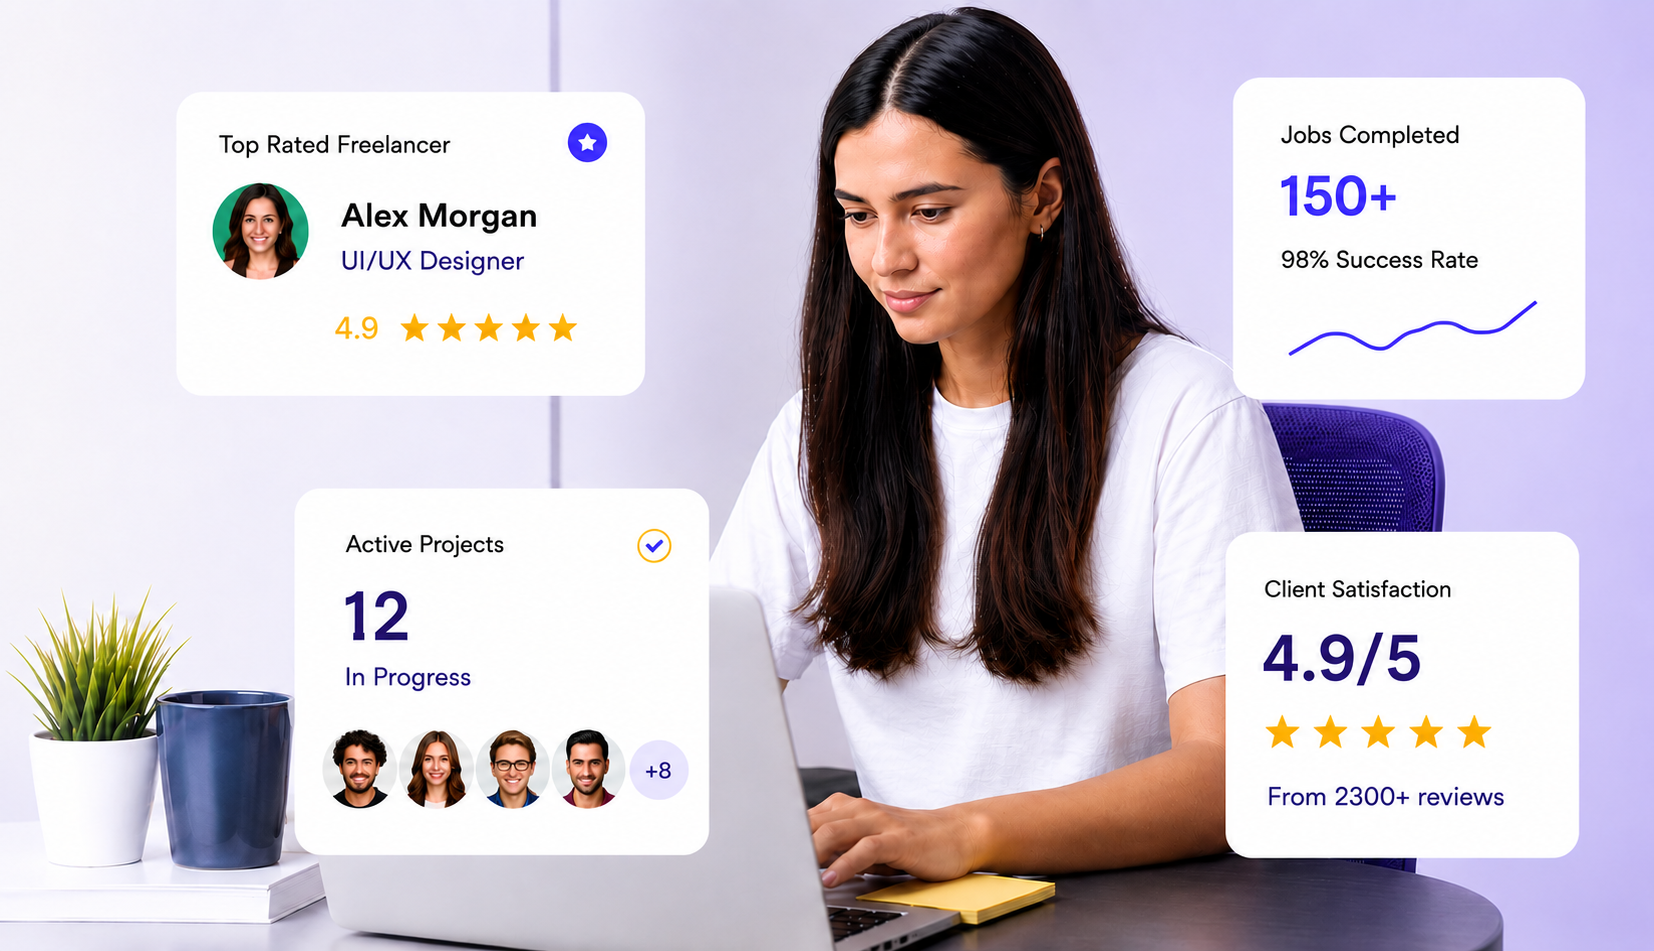
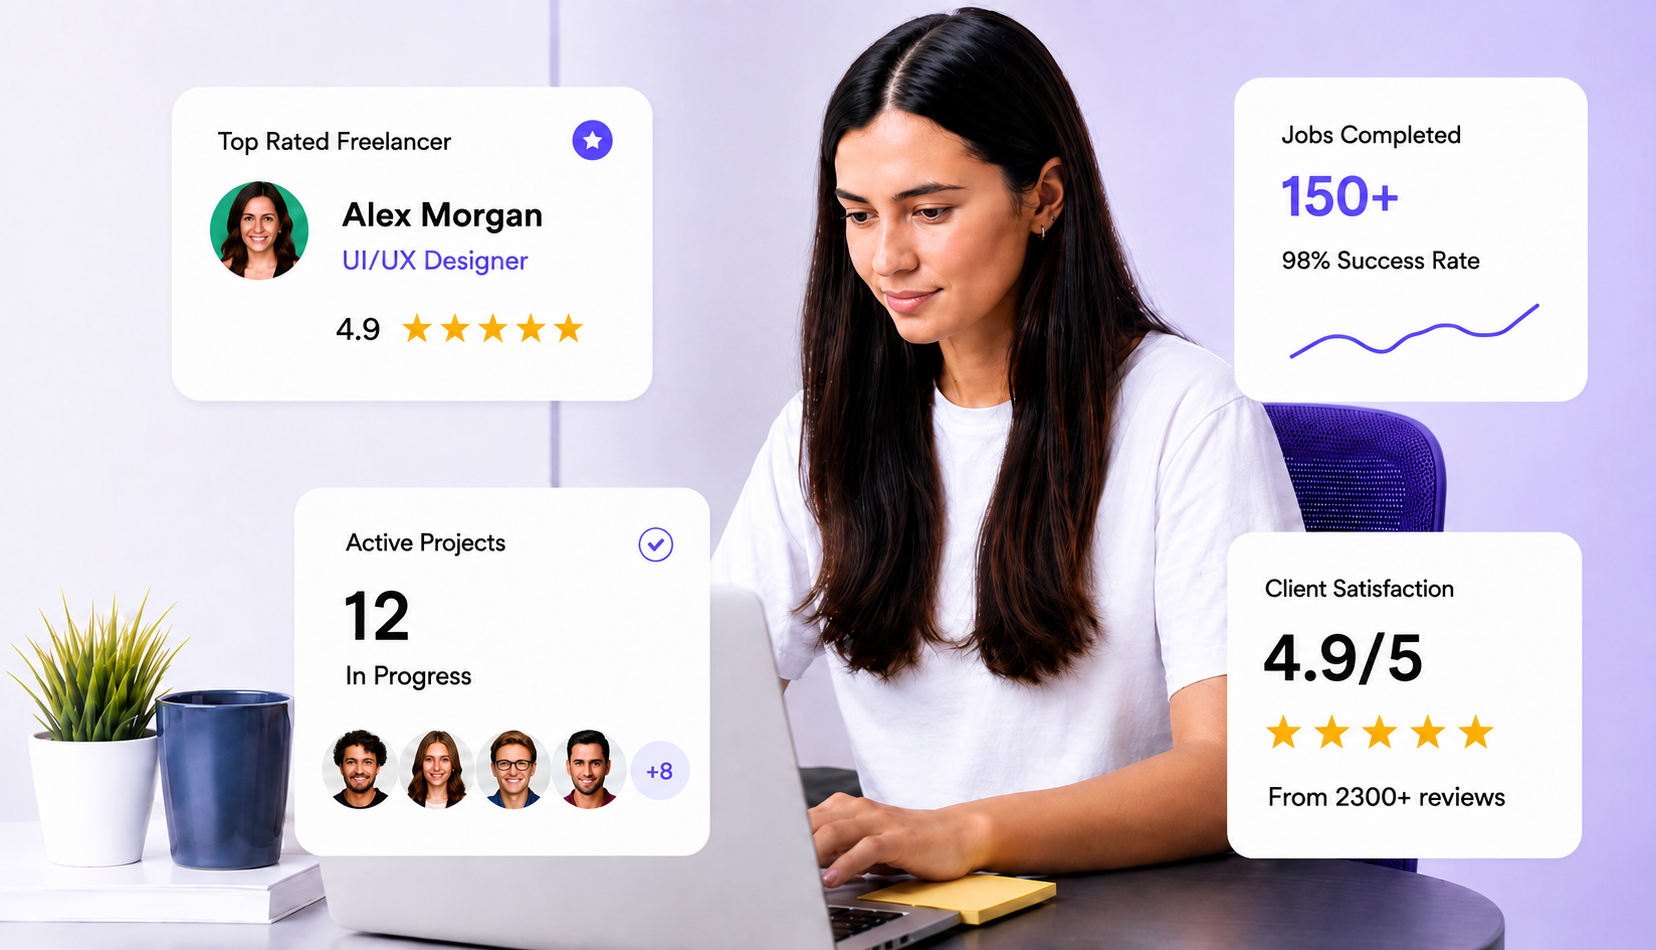
Home Page

diff --git a/index.html b/index.html
@@ -379,6 +379,14 @@
   .carousel-wrap.in .video-card:nth-child(5){animation-delay:.28s;}
   .carousel-wrap.in .video-card:nth-child(6){animation-delay:.34s;}
 
+  /* Our Services cards — same pop-up entrance style as the Watch Our Latest Videos / jobs carousels */
+  .services-row.reveal{ opacity:1; transform:none; transition:none; } /* the row itself just acts as the scroll trigger; cards animate individually below */
+  .services-row .fx-service-card{ opacity:0; }
+  .services-row.in .fx-service-card{ animation:fadeInUp .65s cubic-bezier(.2,.7,.2,1) forwards; }
+  .services-row.in .col-12:nth-child(1) .fx-service-card{ animation-delay:.04s; }
+  .services-row.in .col-12:nth-child(2) .fx-service-card{ animation-delay:.1s; }
+  .services-row.in .col-12:nth-child(3) .fx-service-card{ animation-delay:.16s; }
+
   .job-card{
     scroll-snap-align:start;
     flex:0 0 auto;
@@ -909,11 +917,18 @@
     left: 130%;
 }
 
-  .fx-reveal{ opacity:0; transform:translateY(26px); transition:opacity .7s cubic-bezier(.2,.7,.2,1), transform .7s cubic-bezier(.2,.7,.2,1); }
+  .fx-reveal{ opacity:0; transform:translateY(48px); transition:opacity 1s cubic-bezier(.2,.7,.2,1), transform 1s cubic-bezier(.2,.7,.2,1); will-change:opacity, transform; }
   .fx-reveal.fx-in{ opacity:1; transform:translateY(0); }
-  .fx-reveal.fx-r1{transition-delay:.05s;}
-  .fx-reveal.fx-r2{transition-delay:.12s;}
-  .fx-reveal.fx-r3{transition-delay:.19s;}
+  .fx-reveal.fx-r1{transition-delay:.12s;}
+  .fx-reveal.fx-r2{transition-delay:.28s;}
+  .fx-reveal.fx-r3{transition-delay:.44s;}
+
+  /* Slide-in-from-left variant, used for How It Works media */
+  .fx-reveal.fx-reveal-left{ transform:translateX(-140px); transition-duration:1.1s; }
+  .fx-reveal.fx-reveal-left.fx-in{ transform:translateX(0); }
+  @media (max-width: 991.98px){
+    .fx-reveal.fx-reveal-left{ transform:translateY(48px); } /* fall back to up-fade on small screens where the column stacks */
+  }
 /* Step Card */
 .fx-step{
     transition: transform .35s cubic-bezier(.2,.8,.2,1),
@@ -999,12 +1014,28 @@
 }
 
   .fx-purpose-card{ transition: transform .4s cubic-bezier(.2,.8,.2,1), box-shadow .4s ease, background-color .45s ease, border-color .45s ease; }
+  /* the transition shorthand above would otherwise wipe out the reveal's opacity/transform
+     transition on the same element — restore it here with higher specificity, and make the
+     entrance clearly noticeable: a bigger rise + a slight scale-pop, staggered per card. */
+  .fx-purpose-card.fx-reveal{
+    transform: translateY(90px) scale(.92);
+    transition: opacity 1.1s cubic-bezier(.2,.7,.2,1), transform 1.1s cubic-bezier(.2,.7,.2,1), box-shadow .4s ease, background-color .45s ease, border-color .45s ease;
+  }
+  .fx-purpose-card.fx-reveal.fx-in{ transform: translateY(0) scale(1); }
+  .fx-purpose-card.fx-reveal.fx-r1{ transition-delay:.05s; }
+  .fx-purpose-card.fx-reveal.fx-r2{ transition-delay:.35s; }
   .fx-purpose-card:hover{ transform: translateY(-6px); box-shadow:0 22px 42px -20px rgba(28,27,58,.2); }
+  .fx-purpose-card.fx-reveal.fx-in:hover{ transform: translateY(-6px); }
   .fx-icon-circle{ transition: transform .35s ease, background-color .35s ease, color .35s ease; }
   .fx-purpose-card:hover .fx-icon-circle{ transform: rotate(-10deg) scale(1.1); }
   .fx-purpose-card h3{ transition: color .4s ease; }
   .fx-purpose-text{ color:#334155; transition: color .4s ease; }
   .fx-media-hover{ transition: box-shadow .45s ease; }
+  /* fx-media-hover's transition shorthand above would otherwise wipe out the
+     opacity/transform transition needed for the entrance reveal on the same
+     element — restore it here with higher specificity so both work together. */
+  .fx-media-hover.fx-reveal{ transition: opacity 1s cubic-bezier(.2,.7,.2,1), transform 1s cubic-bezier(.2,.7,.2,1), box-shadow .45s ease; }
+  .fx-media-hover.fx-reveal.fx-reveal-left{ transition: opacity 1.1s cubic-bezier(.2,.7,.2,1), transform 1.1s cubic-bezier(.2,.7,.2,1), box-shadow .45s ease; }
 
   /* ---- For Businesses card: purple takeover on hover ---- */
   .fx-card-business:hover{
@@ -1513,7 +1544,7 @@ section{
 </header>
  <!-- HERO SECTION -->
 <section class="position-relative w-100 d-flex align-items-center py-5 overflow-hidden" style="min-height: 560px;">
-  <img src="hero_image.png" 
+  <img src="hero_image.webp" 
        alt="Hero Background" 
        class="position-absolute top-0 end-0 h-100 w-100" 
        style="object-fit:contain; object-position: center right; z-index: 0;">
@@ -1611,7 +1642,7 @@ section{
     <div class="row align-items-center g-4 g-lg-5" style="min-height: 500px;">
 
       <div class="col-12 col-lg-6 text-center">
-        <div class="rounded-4 overflow-hidden shadow-sm mx-auto fx-media-hover fx-reveal" style="max-width: 480px; height: 440px; background-color: #f8fafc;">
+        <div class="rounded-4 overflow-hidden shadow-sm mx-auto fx-media-hover fx-reveal fx-reveal-left" style="max-width: 480px; height: 440px; background-color: #f8fafc;">
           <img src="remote_job.png" 
                alt="Find Remote Jobs View" 
                class="w-100 h-100" 
@@ -1621,10 +1652,10 @@ section{
 
       <div class="col-12 col-lg-6 ps-lg-4 d-flex flex-column justify-content-between" style="min-height: 440px;">
         <div>
-          <h2 class="fw-bold text-dark mb-2" style="font-size: 36px; font-weight: 900; letter-spacing: -0.5px;">
+          <h2 class="fw-bold text-dark mb-2 fx-reveal" style="font-size: 36px; font-weight: 900; letter-spacing: -0.5px;">
             Find Remote Jobs
           </h2>
-          <p class="mb-3" style="font-size: 16px; color: #64748b; line-height: 1.5; min-height: 42px;">
+          <p class="mb-3 fx-reveal fx-r1" style="font-size: 16px; color: #64748b; line-height: 1.5; min-height: 42px;">
             Start freelancing in 3 easy steps and build your remote career from anywhere with verified projects and global clients.
           </p>
 
@@ -1641,7 +1672,7 @@ section{
      ">
 </div>
 
-            <div class=" fx-step-wrapper d-flex align-items-center gap-3 position-relative" style="z-index: 1;">
+            <div class="fx-step-wrapper fx-reveal fx-r1 d-flex align-items-center gap-3 position-relative" style="z-index: 1;">
               <div class="rounded-circle d-flex align-items-center justify-content-center fw-bold text-dark shadow-sm fx-number" style="width: 40px; height: 40px; background-color: #ffcd00; font-size: 14px; flex-shrink: 0;">1</div>
               <div class="p-3 rounded-4 d-flex align-items-center gap-3 w-100 fx-step fx-step-yellow" style="background-color: #fffdf5; border: 1px solid #fef3c7; min-height: 76px;">
                 <div class="rounded-3 d-flex align-items-center justify-content-center" style="width: 45px; height: 45px; background-color: #fef3c7; color: #ffcd00; flex-shrink: 0;">
@@ -1654,7 +1685,7 @@ section{
               </div>
             </div>
 
-            <div class=" fx-step-wrapper d-flex align-items-center gap-3 position-relative" style="z-index: 1;">
+            <div class="fx-step-wrapper fx-reveal fx-r2 d-flex align-items-center gap-3 position-relative" style="z-index: 1;">
               <div class="rounded-circle d-flex align-items-center justify-content-center fw-bold text-white shadow-sm fx-number" style="width: 40px; height: 40px; background-color: #7b7dfc; font-size: 14px; flex-shrink: 0;">2</div>
               <div class="p-3 rounded-4 d-flex align-items-center gap-3 w-100 fx-step fx-step-purple" style="background-color: #f5f3ff; border: 1px solid #ede9fe; min-height: 76px;">
                 <div class="rounded-3 d-flex align-items-center justify-content-center" style="width: 45px; height: 45px; background-color: #ede9fe; color: #7b7dfc; flex-shrink: 0;">
@@ -1667,7 +1698,7 @@ section{
               </div>
             </div>
 
-            <div class=" fx-step-wrapper d-flex align-items-center gap-3 position-relative" style="z-index: 1;">
+            <div class="fx-step-wrapper fx-reveal fx-r3 d-flex align-items-center gap-3 position-relative" style="z-index: 1;">
               <div class="rounded-circle d-flex align-items-center justify-content-center fw-bold text-white shadow-sm fx-number" style="width: 40px; height: 40px; background-color: #e91e63; font-size: 14px; flex-shrink: 0;">3</div>
               <div class="p-3 rounded-4 d-flex align-items-center gap-3 w-100 fx-step fx-step-pink" style="background-color: #fdf2f8; border: 1px solid #fbcfe8; min-height: 76px;">
                 <div class="rounded-3 d-flex align-items-center justify-content-center" style="width: 45px; height: 45px; background-color: #fbcfe8; color: #e91e63; flex-shrink: 0;">
@@ -1696,7 +1727,7 @@ section{
     <div class="row align-items-center g-4 g-lg-5" style="min-height: 500px;">
 
       <div class="col-12 col-lg-6 text-center">
-        <div class="rounded-4 overflow-hidden shadow-sm mx-auto fx-media-hover fx-reveal" style="max-width: 480px; height: 440px; background-color: #f8fafc;">
+        <div class="rounded-4 overflow-hidden shadow-sm mx-auto fx-media-hover fx-reveal fx-reveal-left" style="max-width: 480px; height: 440px; background-color: #f8fafc;">
           <img src="find_project_talent.png" 
                alt="Find Project Talent View" 
                class="w-100 h-100" 
@@ -1706,10 +1737,10 @@ section{
 
       <div class="col-12 col-lg-6 ps-lg-4 d-flex flex-column justify-content-between" style="min-height: 440px;">
         <div>
-          <h2 class="fw-bold text-dark mb-2" style="font-size: 36px; font-weight: 900; letter-spacing: -0.5px;">
+          <h2 class="fw-bold text-dark mb-2 fx-reveal" style="font-size: 36px; font-weight: 900; letter-spacing: -0.5px;">
             Find Project Talent
           </h2>
-          <p class="mb-3" style="font-size: 16px; color: #64748b; line-height: 1.5; min-height: 42px;">
+          <p class="mb-3 fx-reveal fx-r1" style="font-size: 16px; color: #64748b; line-height: 1.5; min-height: 42px;">
             Scale your team with vetted professionals matched to your project requirements and timelines.
           </p>
 
@@ -1726,7 +1757,7 @@ section{
      ">
 </div>
 
-            <div class=" fx-step-wrapper d-flex align-items-center gap-3 position-relative" style="z-index: 1;">
+            <div class="fx-step-wrapper fx-reveal fx-r1 d-flex align-items-center gap-3 position-relative" style="z-index: 1;">
               <div class="rounded-circle d-flex align-items-center justify-content-center fw-bold text-dark shadow-sm fx-number" style="width: 40px; height: 40px; background-color: #ffcd00; font-size: 14px; flex-shrink: 0;">1</div>
               <div class="p-3 rounded-4 d-flex align-items-center gap-3 w-100 fx-step fx-step-yellow" style="background-color: #fffdf5; border: 1px solid #fef3c7; min-height: 76px;">
                 <div class="rounded-3 d-flex align-items-center justify-content-center" style="width: 45px; height: 45px; background-color: #fef3c7; color: #ffcd00; flex-shrink: 0;">
@@ -1739,7 +1770,7 @@ section{
               </div>
             </div>
 
-            <div class=" fx-step-wrapper d-flex align-items-center gap-3 position-relative" style="z-index: 1;">
+            <div class="fx-step-wrapper fx-reveal fx-r2 d-flex align-items-center gap-3 position-relative" style="z-index: 1;">
               <div class="rounded-circle d-flex align-items-center justify-content-center fw-bold text-white shadow-sm fx-number" style="width: 40px; height: 40px; background-color: #7b7dfc; font-size: 14px; flex-shrink: 0;">2</div>
               <div class="p-3 rounded-4 d-flex align-items-center gap-3 w-100 fx-step fx-step-purple" style="background-color: #f5f3ff; border: 1px solid #ede9fe; min-height: 76px;">
                 <div class="rounded-3 d-flex align-items-center justify-content-center" style="width: 45px; height: 45px; background-color: #ede9fe; color: #7b7dfc; flex-shrink: 0;">
@@ -1752,7 +1783,7 @@ section{
               </div>
             </div>
 
-            <div class=" fx-step-wrapper d-flex align-items-center gap-3 position-relative" style="z-index: 1;">
+            <div class="fx-step-wrapper fx-reveal fx-r3 d-flex align-items-center gap-3 position-relative" style="z-index: 1;">
               <div class="rounded-circle d-flex align-items-center justify-content-center fw-bold text-white shadow-sm fx-number" style="width: 40px; height: 40px; background-color: #e91e63; font-size: 14px; flex-shrink: 0;">3</div>
               <div class="p-3 rounded-4 d-flex align-items-center gap-3 w-100 fx-step fx-step-pink" style="background-color: #fdf2f8; border: 1px solid #fbcfe8; min-height: 76px;">
                 <div class="rounded-3 d-flex align-items-center justify-content-center" style="width: 45px; height: 45px; background-color: #fbcfe8; color: #e91e63; flex-shrink: 0;">
@@ -1781,7 +1812,7 @@ section{
     <div class="row align-items-center g-4 g-lg-5" style="min-height: 500px;">
 
       <div class="col-12 col-lg-6 text-center">
-        <div class="rounded-4 overflow-hidden shadow-sm mx-auto fx-media-hover fx-reveal" style="max-width: 480px; height: 440px; background-color: #f8fafc;">
+        <div class="rounded-4 overflow-hidden shadow-sm mx-auto fx-media-hover fx-reveal fx-reveal-left" style="max-width: 480px; height: 440px; background-color: #f8fafc;">
           <img src="grow_your_skills.png" 
                alt="Grow Your Skills View" 
                class="w-100 h-100" 
@@ -1791,10 +1822,10 @@ section{
 
       <div class="col-12 col-lg-6 ps-lg-4 d-flex flex-column justify-content-between" style="min-height: 440px;">
         <div>
-          <h2 class="fw-bold text-dark mb-2" style="font-size: 36px; font-weight: 900; letter-spacing: -0.5px;">
+          <h2 class="fw-bold text-dark mb-2 fx-reveal" style="font-size: 36px; font-weight: 900; letter-spacing: -0.5px;">
             Grow Your Skills
           </h2>
-          <p class="mb-3" style="font-size: 16px; color: #64748b; line-height: 1.5; min-height: 42px;">
+          <p class="mb-3 fx-reveal fx-r1" style="font-size: 16px; color: #64748b; line-height: 1.5; min-height: 42px;">
             Advance your career with guided learning, hands-on projects, and expert feedback.
           </p>
 
@@ -1811,7 +1842,7 @@ section{
      ">
 </div>
 
-            <div class="fx-step-wrapper d-flex align-items-center gap-3 position-relative" style="z-index: 1;">
+            <div class="fx-step-wrapper fx-reveal fx-r1 d-flex align-items-center gap-3 position-relative" style="z-index: 1;">
               <div class="rounded-circle d-flex align-items-center justify-content-center fw-bold text-dark shadow-sm fx-number" style="width: 40px; height: 40px; background-color: #ffcd00; font-size: 14px; flex-shrink: 0;">1</div>
               <div class="p-3 rounded-4 d-flex align-items-center gap-3 w-100 fx-step fx-step-yellow" style="background-color: #fffdf5; border: 1px solid #fef3c7; min-height: 76px;">
                 <div class="rounded-3 d-flex align-items-center justify-content-center" style="width: 45px; height: 45px; background-color: #fef3c7; color: #ffcd00; flex-shrink: 0;">
@@ -1824,7 +1855,7 @@ section{
               </div>
             </div>
 
-            <div class="fx-step-wrapper d-flex align-items-center gap-3 position-relative" style="z-index: 1;">
+            <div class="fx-step-wrapper fx-reveal fx-r2 d-flex align-items-center gap-3 position-relative" style="z-index: 1;">
               <div class="rounded-circle d-flex align-items-center justify-content-center fw-bold text-white shadow-sm fx-number" style="width: 40px; height: 40px; background-color: #7b7dfc; font-size: 14px; flex-shrink: 0;">2</div>
               <div class="p-3 rounded-4 d-flex align-items-center gap-3 w-100 fx-step fx-step-purple" style="background-color: #f5f3ff; border: 1px solid #ede9fe; min-height: 76px;">
                 <div class="rounded-3 d-flex align-items-center justify-content-center" style="width: 45px; height: 45px; background-color: #ede9fe; color: #7b7dfc; flex-shrink: 0;">
@@ -1837,7 +1868,7 @@ section{
               </div>
             </div>
 
-            <div class="fx-step-wrapper d-flex align-items-center gap-3 position-relative" style="z-index: 1;">
+            <div class="fx-step-wrapper fx-reveal fx-r3 d-flex align-items-center gap-3 position-relative" style="z-index: 1;">
               <div class="rounded-circle d-flex align-items-center justify-content-center fw-bold text-white shadow-sm fx-number" style="width: 40px; height: 40px; background-color: #e91e63; font-size: 14px; flex-shrink: 0;">3</div>
               <div class="p-3 rounded-4 d-flex align-items-center gap-3 w-100 fx-step fx-step-pink" style="background-color: #fdf2f8; border: 1px solid #fbcfe8; min-height: 76px;">
                 <div class="rounded-3 d-flex align-items-center justify-content-center" style="width: 45px; height: 45px; background-color: #fbcfe8; color: #e91e63; flex-shrink: 0;">
@@ -1908,7 +1939,7 @@ section{
       
       <!-- ================= TAB 1: FREELANCER ================= -->
       <div class="tab-pane fade show active" id="freelancer" role="tabpanel">
-        <div class="row g-4">
+        <div class="row g-4 reveal services-row">
 
           <div class="col-12 col-md-6 col-lg-4 d-flex">
             <div class="card border-0 rounded-4 shadow-sm w-100 p-3 d-flex flex-column justify-content-between fx-service-card" style="background-color: #ffffff;">
@@ -1963,7 +1994,7 @@ section{
 
       <!-- ================= TAB 2: COMPANIES ================= -->
       <div class="tab-pane fade" id="companies" role="tabpanel">
-        <div class="row g-4">
+        <div class="row g-4 reveal services-row">
 
           <div class="col-12 col-md-6 col-lg-4 d-flex">
             <div class="card border-0 rounded-4 shadow-sm w-100 p-3 d-flex flex-column justify-content-between fx-service-card" style="background-color: #ffffff;">
@@ -2018,7 +2049,7 @@ section{
 
       <!-- ================= TAB 3: TRAINING PROGRAMS ================= -->
       <div class="tab-pane fade" id="training" role="tabpanel">
-        <div class="row g-4">
+        <div class="row g-4 reveal services-row">
 
           <div class="col-12 col-md-6 col-lg-4 d-flex">
             <div class="card border-0 rounded-4 shadow-sm w-100 p-3 d-flex flex-column justify-content-between fx-service-card" style="background-color: #ffffff;">
@@ -2091,7 +2122,7 @@ section{
 <div class="row g-3">
 
   <div class="col-12 col-lg-6 d-flex">
-    <div class="p-4 rounded-5 border w-100 d-flex flex-column justify-content-start shadow-sm fx-purpose-card fx-card-business fx-reveal" 
+    <div class="p-4 rounded-5 border w-100 d-flex flex-column justify-content-start shadow-sm fx-purpose-card fx-card-business fx-reveal fx-r1" 
          style="background-color: #f6f7fe; border-color: #eef2ff !important;">
       
       <div>
@@ -2140,7 +2171,7 @@ section{
   </div>
 
 <div class="col-12 col-lg-6 d-flex">
-  <div class="p-4 rounded-5 border w-100 d-flex flex-column justify-content-start shadow-sm fx-purpose-card fx-card-freelancer fx-reveal" 
+  <div class="p-4 rounded-5 border w-100 d-flex flex-column justify-content-start shadow-sm fx-purpose-card fx-card-freelancer fx-reveal fx-r2" 
        style="background-color: #fffdf5; border-color: #fef9c3 !important;">
     
     <div>
